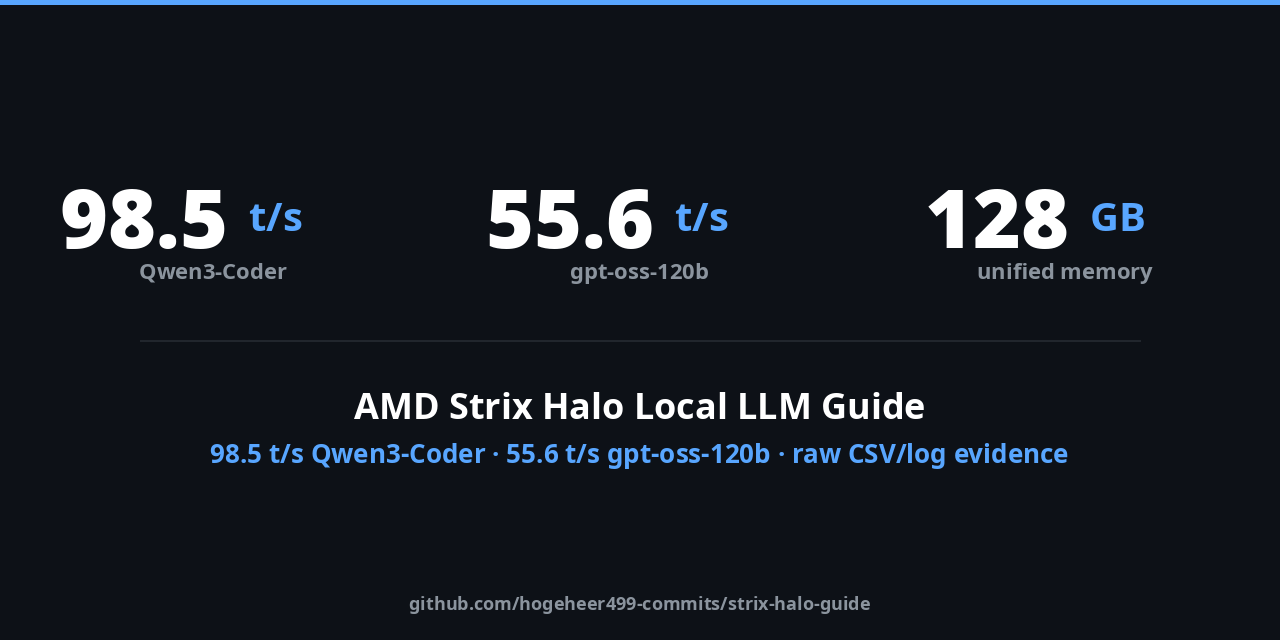
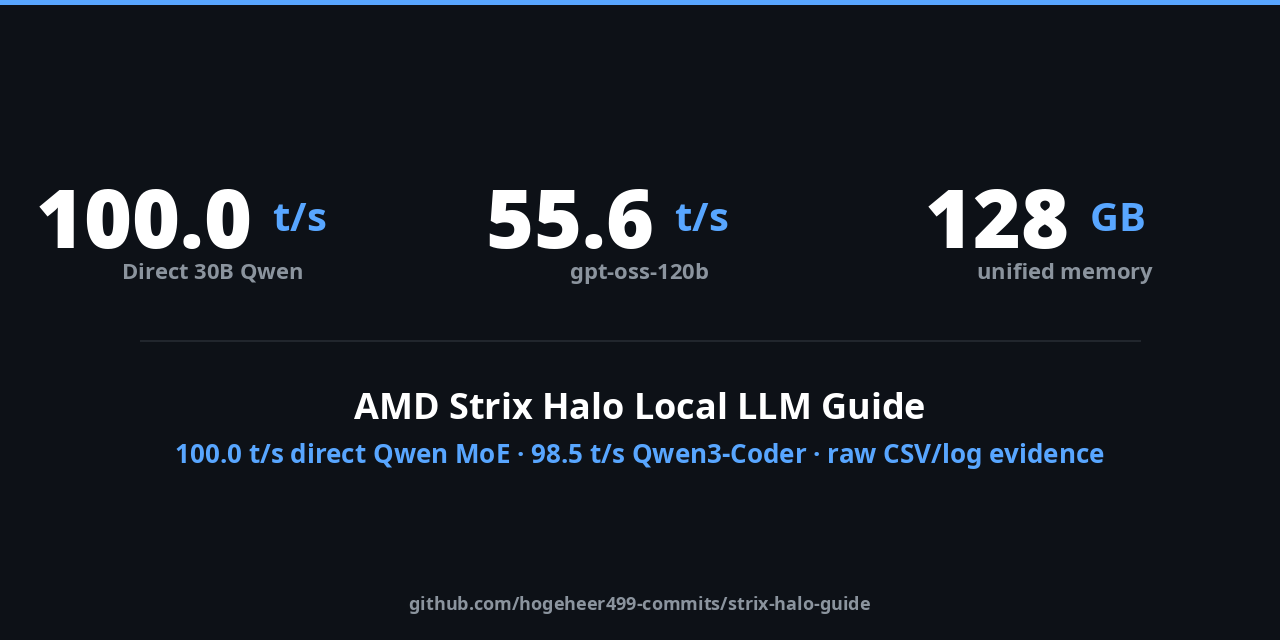
docs: refresh 100 tps sharing metadata

Changed region(s): [[0.125, 0.6875, 0.875, 0.75], [0.0312, 0.2812, 0.25, 0.4375]]

diff --git a/generate_preview.py b/generate_preview.py
@@ -19,7 +19,7 @@ draw.rectangle([0, 0, W, 4], fill=ACCENT)
 
 # Three big numbers side by side
 stats = [
-    ("98.5", "t/s", "Qwen3-Coder"),
+    ("100.0", "t/s", "Direct 30B Qwen"),
     ("55.6", "t/s", "gpt-oss-120b"),
     ("128", "GB", "unified memory"),
 ]
@@ -67,7 +67,7 @@ bbox = draw.textbbox((0, 0), title, font=title_font)
 draw.text(((W - bbox[2] + bbox[0]) // 2, 380), title, fill=WHITE, font=title_font)
 
 # Punchline
-punch = "98.5 t/s Qwen3-Coder · 55.6 t/s gpt-oss-120b · raw CSV/log evidence"
+punch = "100.0 t/s direct Qwen MoE · 98.5 t/s Qwen3-Coder · raw CSV/log evidence"
 punch_font = font_reg(26)
 bbox = draw.textbbox((0, 0), punch, font=punch_font)
 draw.text(((W - bbox[2] + bbox[0]) // 2, 435), punch, fill=ACCENT, font=punch_font)

diff --git a/SHARE.md b/SHARE.md
@@ -44,7 +44,7 @@ Everyone should post this link.
 
 ## One-Line Summary
 
-Measured Strix Halo local LLM guide for Ryzen AI MAX+ 395 / Radeon 8060S / 96-128GB unified memory: setup, model choices, 63-98.5 t/s current direct Qwen MoE results, 81.3 t/s Qwen3.6 speed-first, 55.6 t/s gpt-oss-120b, 128K context, MTP speculative decoding at 101.1 t/s local broad average, CSVs, raw logs, reproducibility notes, community validation across Corsair, GMKtec, and MS-S1-Max systems, command-flag sensitivity notes, Windows LM Studio evidence, tuned thermal/power-policy evidence, and first wall-power efficiency rows.
+Measured Strix Halo local LLM guide for Ryzen AI MAX+ 395 / Radeon 8060S / 96-128GB unified memory: setup, model choices, direct 100.0 t/s 30B-class Qwen MoE evidence, 98.5 t/s Qwen3-Coder speed-first, 81.3 t/s Qwen3.6 speed-first, 55.6 t/s gpt-oss-120b, 128K context, MTP speculative decoding at 101.1 t/s local broad average, CSVs, raw logs, reproducibility notes, community validation across Corsair, GMKtec, and MS-S1-Max systems, command-flag sensitivity notes, Windows LM Studio evidence, tuned thermal/power-policy evidence, and first wall-power efficiency rows.
 
 ## Short Share Text
 
@@ -53,6 +53,8 @@ I could not find one complete, copyable Strix Halo local LLM guide, so I made on
 Highlights:
 
 - Qwen3-Coder 30B-A3B: 96.76 t/s direct llama.cpp Vulkan/RADV on current b9049; previous b9010 peak was 97.24 t/s.
+- Qwen3-30B-A3B-Instruct-2507 IQ4_XS: 100.04 t/s direct llama.cpp Vulkan/RADV on b9467. This is a separate general-instruct Qwen route, not the Qwen3-Coder headline.
+- Qwen3-Coder 30B-A3B Q4_K_S: 98.51 t/s direct llama.cpp Vulkan/RADV speed-first row on b9179.
 - Qwen3.6 35B-A3B: 62.56 t/s direct llama.cpp Vulkan/RADV on current b9049.
 - Qwen3.6 35B-A3B Q4_0: 81.30 t/s direct llama.cpp Vulkan/RADV as a speed-first quant row.
 - Qwen3.6 35B-A3B MTP IQ4_XS-Q8nextn: 101.16 t/s best local Beelink average over six `llama-server` prompts on b9360, with repeated t16 runs around 101.1 t/s; first GMKtec community reproduction reached 93.29 t/s on b9235. Best local prompt was 117.53 t/s. This is speculative server evidence, not a direct `llama-bench` headline.
@@ -71,7 +73,7 @@ Corrections, other Strix Halo results, and failed experiments are welcome.
 
 Title options:
 
-- I benchmarked local LLMs on AMD Strix Halo 128GB: 97 t/s Qwen3-Coder, 55.6 t/s gpt-oss-120b, 128K context
+- I benchmarked local LLMs on AMD Strix Halo 128GB: direct 100 t/s Qwen 30B MoE, 55.6 t/s gpt-oss-120b, 128K context
 - Strix Halo local LLM guide with raw CSVs/logs: what works, what does not, and what to run
 - AMD Ryzen AI MAX+ 395 local LLM guide: Ollama, llama.cpp, Vulkan/RADV, ROCm, 128K context
 
@@ -85,6 +87,8 @@ https://github.com/hogeheer499-commits/strix-halo-guide
 This is measured primarily on a Beelink GTR9 Pro with Ryzen AI MAX+ 395, Radeon 8060S, and 128GB unified memory.
 
 Headline results:
+- Qwen3-30B-A3B-Instruct-2507 IQ4_XS: 100.04 t/s direct llama.cpp Vulkan/RADV on b9467. Separate general-instruct Qwen route; not a Qwen3-Coder replacement.
+- Qwen3-Coder 30B-A3B Q4_K_S: 98.51 t/s direct llama.cpp Vulkan/RADV speed-first row on b9179
 - Qwen3-Coder 30B-A3B UD-Q4_K_XL: 96.76 t/s direct llama.cpp Vulkan/RADV on current b9049
 - Qwen3.6 35B-A3B UD-Q4_K_M: 62.56 t/s direct llama.cpp Vulkan/RADV on current b9049
 - Qwen3.6 35B-A3B Q4_0: 81.30 t/s direct llama.cpp Vulkan/RADV as a speed-first quant row
@@ -133,7 +137,7 @@ Repo: https://github.com/hogeheer499-commits/strix-halo-guide
 Strix Halo local LLM guide with measured setup + raw benchmark evidence:
 https://github.com/hogeheer499-commits/strix-halo-guide
 
-Highlights: 98.51 t/s Qwen3-Coder speed-first direct llama.cpp Vulkan/RADV, 96.76 t/s balanced Qwen3-Coder direct row on b9049, 101.16 t/s local Qwen3.6 MTP server average on b9360 plus 93.29 t/s GMKtec community MTP reproduction on b9235, 55.57 t/s gpt-oss-120b MXFP4, 128K context tested, server shootout included, N=3 Corsair validation at 93.55-95.50 t/s, GMKtec EVO-X2 native Ubuntu Qwen3.6 validation within 2%, GMKtec Qwen3-Coder b9235 follow-up data, Windows MS-S1-Max LM Studio evidence, a tuned Reddit GMKtec 99.9-100.0 t/s Qwen3-Coder report, community wall-power rows, a community 3-node USB4 llama.cpp RPC matrix, and USB4 latency tuning data.
+Highlights: 100.04 t/s direct Qwen3-30B-A3B-Instruct-2507 IQ4_XS, 98.51 t/s Qwen3-Coder speed-first direct llama.cpp Vulkan/RADV, 96.76 t/s balanced Qwen3-Coder direct row on b9049, 101.16 t/s local Qwen3.6 MTP server average on b9360 plus 93.29 t/s GMKtec community MTP reproduction on b9235, 55.57 t/s gpt-oss-120b MXFP4, 128K context tested, server shootout included, N=3 Corsair validation at 93.55-95.50 t/s, GMKtec EVO-X2 native Ubuntu Qwen3.6 validation within 2%, GMKtec Qwen3-Coder b9235 follow-up data, Windows MS-S1-Max LM Studio evidence, a tuned Reddit GMKtec 99.9-100.0 t/s Qwen3-Coder report, community wall-power rows, a community 3-node USB4 llama.cpp RPC matrix, and USB4 latency tuning data.
 ```
 
 ## Partner / Reviewer Sharing Snippet

diff --git a/MAX_PERFORMANCE_PLAN.md b/MAX_PERFORMANCE_PLAN.md
@@ -26,7 +26,8 @@ Current fastest local headline:
 - Historical balanced peak: Qwen3-Coder 30B-A3B UD-Q4_K_XL at 97.24 t/s on b9010.
 - New speed-first peak: Qwen3-Coder 30B-A3B Q4_K_S at 98.51 t/s r50 on llama.cpp b9179, Vulkan/RADV, after fixing the `tuned` versus `power-profiles-daemon` conflict and pausing benchmark noise.
 - Treat 98.51 t/s as the current measured speed-first Qwen3-Coder peak, not a 100 t/s result and not the default balanced-quality recommendation.
-- Additional break-100 route testing reached 99.11 t/s in an r5 scout and 98.96 t/s in an r20 confirmation, but still did not produce a stable 100 t/s result.
+- Separate direct 100 t/s row: Qwen3-30B-A3B-Instruct-2507 IQ4_XS reached 100.04 t/s r50 on llama.cpp b9467, Vulkan/RADV. Treat it as a separate general-instruct Qwen route, not as a Qwen3-Coder replacement.
+- Additional Qwen3-Coder break-100 route testing reached 99.11 t/s in an r5 scout and 98.96 t/s in an r20 confirmation, but still did not produce a stable Qwen3-Coder 100 t/s result.
 - Current fastest measured Qwen3.6 path: Q4_0 at 81.30 t/s on llama.cpp b9049, Vulkan/RADV. Label this as speed-first, not the default all-round quality recommendation.
 - Current fastest measured Qwen3.6 MTP server route: 101.16 t/s best local Beelink six-prompt average on IQ4_XS-Q8nextn with b9360, `draft-n=2`, `--poll 100`, and `-ub 1024`; t16 repeats were 101.15 / 101.10 / 101.06 t/s. The best community broad MTP average is 93.29 t/s on GMKtec EVO-X2 with b9235.
 
@@ -38,7 +39,8 @@ Detailed results: [`MAX_PERFORMANCE_RESULTS_2026-05-07.md`](MAX_PERFORMANCE_RESU
 |-------|--------|--------|
 | Qwen3.6 quant sweep | done | Q4_0 reached 81.30 t/s; Q4_K_M reached 76.94 t/s; old UD row remains 62.56 t/s. |
 | Same-source HIP vs Vulkan | done | HIP wins prompt processing at pp16384; Vulkan wins tg128. |
-| Qwen3-Coder max-speed sweep | done | No stable 100 t/s result; strict-clean speed-first ceiling is now 98.51 t/s; balanced UD remains 96-97 t/s. |
+| Qwen3-Coder max-speed sweep | done | No stable Qwen3-Coder 100 t/s result; strict-clean speed-first ceiling is now 98.51 t/s; balanced UD remains 96-97 t/s. |
+| Qwen3-30B-A3B-Instruct-2507 scout | done | IQ4_XS reached 100.04 t/s r50 direct `llama-bench` on b9467; separate general-instruct Qwen route, not a Qwen3-Coder replacement. |
 | gpt-oss-120b long-context sweep | done | 55.57 t/s tg128 and prompt processing through 65K tokens. |
 | Tuned rocWMMA path | attempted | lhl branch built, but failed to load current Qwen3.6 GGUFs. |
 | vLLM AWQ/DFlash | partially blocked | Plain AWQ smoke works at about 25 t/s; exact DFlash route blocked by gated drafter access. |
@@ -120,7 +122,7 @@ Expected outcome:
 
 Why: this directly targets the 96-98.5 t/s Qwen3-Coder headline. The next useful question is whether the Beelink can cross 100 t/s on a still-useful coding model.
 
-2026-05-17 update: current llama.cpp master b9179 and Unsloth Qwen3-Coder Q4_0/Q4_K_S/IQ4_NL/Q4_K_M quants were tested. Q4_K_S reached 97.22 t/s r20 in the first sweep. After fixing the `tuned`/`power-profiles-daemon` host-state conflict and pausing benchmark noise, Q4_K_S confirmed 98.51 t/s r50. A later break-100 pass reached 99.11 t/s in r5 and 98.96 t/s in r20. AMDVLK isolated, PR #22970, and latest master b9187 also failed to produce a stable direct 100 t/s path. Qwen3-Coder `llama-server` plus ngram speculation reached 95.21 t/s average, also below broad 100. MTP did produce a 110.61 t/s best-prompt `llama-server` result, but that is a separate speculative server claim, not this direct Qwen3-Coder `llama-bench` target.
+2026-05-17 update: current llama.cpp master b9179 and Unsloth Qwen3-Coder Q4_0/Q4_K_S/IQ4_NL/Q4_K_M quants were tested. Q4_K_S reached 97.22 t/s r20 in the first sweep. After fixing the `tuned`/`power-profiles-daemon` host-state conflict and pausing benchmark noise, Q4_K_S confirmed 98.51 t/s r50. A later Qwen3-Coder break-100 pass reached 99.11 t/s in r5 and 98.96 t/s in r20. AMDVLK isolated, PR #22970, and latest master b9187 also failed to produce a stable direct Qwen3-Coder 100 t/s path. A later 2026-06-02 scout did cross 100 t/s direct with Qwen3-30B-A3B-Instruct-2507 IQ4_XS, but that is a separate general-instruct model/quant route. Qwen3-Coder `llama-server` plus ngram speculation reached 95.21 t/s average, also below broad 100. MTP did produce a 110.61 t/s best-prompt `llama-server` result, but that is a separate speculative server claim, not this direct Qwen3-Coder `llama-bench` target.
 
 Levers:
 

diff --git a/MTP_SPECULATIVE_DECODING.md b/MTP_SPECULATIVE_DECODING.md
@@ -2,7 +2,7 @@
 
 This is an experimental `llama-server` route for practical local API speed. It is not the same benchmark as the direct non-speculative `llama-bench` headline.
 
-Short version: MTP works on Strix Halo with Vulkan/RADV and current `llama.cpp` master. It improves server generation on the tested Qwen3.6 35B MTP GGUFs. The latest local b9360 run crossed 100 t/s across the six-prompt harness, and the route also has a GMKtec EVO-X2 community reproduction. This still does not replace the 98.51 t/s direct Qwen3-Coder `llama-bench` headline.
+Short version: MTP works on Strix Halo with Vulkan/RADV and current `llama.cpp` master. It improves server generation on the tested Qwen3.6 35B MTP GGUFs. The latest local b9360 run crossed 100 t/s across the six-prompt harness, and the route also has a GMKtec EVO-X2 community reproduction. Keep it separate from direct `llama-bench`: the guide now has a separate Qwen3-30B-A3B-Instruct-2507 IQ4_XS direct 100.04 t/s row, while the Qwen3-Coder direct speed-first row remains 98.51 t/s.
 
 ## Current Result
 
@@ -41,11 +41,12 @@ Local rows were measured on the Beelink GTR9 Pro with Mesa/RADV and Qwen3.6 MTP 
 
 The most honest public summary is:
 
-- **Direct speed headline remains:** Qwen3-Coder Q4_K_S at 98.51 t/s r50.
+- **Direct Qwen3-Coder speed row:** Qwen3-Coder Q4_K_S remains 98.51 t/s r50.
+- **Separate direct 100 t/s row:** Qwen3-30B-A3B-Instruct-2507 IQ4_XS reached 100.04 t/s r50 direct `llama-bench`; this is a different general-instruct model and quant.
 - **Best local MTP server average measured here:** Qwen3.6 MTP IQ4_XS-Q8nextn at about 101.1 t/s across six practical prompts on b9360 with `draft-n=2`, `--poll 100`, and `-ub 1024`.
 - **Best community MTP average reported so far:** the same exact route reached 93.29 t/s on mottledMantis' GMKtec EVO-X2.
 - **Fastest local MTP server prompt:** Qwen3.6 MTP IQ4_XS-Q8nextn with `draft-n=3`, `-t 16`, `--poll 100`, and `-ub 1024` reached 117.53 t/s on the best b9360 prompt.
-- **Still not a direct 100 t/s claim:** the 100+ result is `llama-server` speculative decoding, not direct non-speculative `llama-bench`.
+- **MTP is still not the direct headline category:** the 101.1 t/s MTP result is `llama-server` speculative decoding, not direct non-speculative `llama-bench`.
 - **Official 27B MTP Q8_0 is not a speed route here:** the latest rerun reached 14.69 t/s with MTP, so the useful practical path remains the 35B-A3B MoE MTP quant.
 
 ## Why This Matters

diff --git a/README.md b/README.md
@@ -1990,7 +1990,7 @@ Financial support may fund hardware, storage, model downloads, testing time, and
 ### 2026-05-27 -- Latest b9360 MTP Breaks 100 t/s Server Average
 
 - **MTP route crossed 100 t/s broad average:** llama.cpp b9360 (`6b4e4bd58`) with Mesa/RADV 26.1.1 pushed Qwen3.6 35B-A3B MTP IQ4_XS-Q8nextn to **101.16 t/s** best six-prompt average with `draft-n=2`, `--poll 100`, and `-ub 1024`. Three t16 repeats landed at **101.15 / 101.10 / 101.06 t/s**.
-- **Still not a direct 100 t/s claim:** b9360 direct Qwen3-Coder Q4_K_S measured **97.23 tg128**, and UD-Q4_K_XL measured **92.60 tg128**. The direct headline remains b9179 Q4_K_S **98.51 t/s** and balanced b9049/b9010 **96-97 t/s**.
+- **At that date, still not a direct 100 t/s claim:** b9360 direct Qwen3-Coder Q4_K_S measured **97.23 tg128**, and UD-Q4_K_XL measured **92.60 tg128**. The Qwen3-Coder direct row remained b9179 Q4_K_S **98.51 t/s** and balanced b9049/b9010 **96-97 t/s** until the later 2026-06-02 guide update added a separate Qwen3-30B-A3B-Instruct-2507 direct 100.04 t/s row.
 - Added raw evidence under `data/raw/2026-05-27/latest-llamacpp-b9360/` and updated `BENCHMARKS.md`, `MTP_SPECULATIVE_DECODING.md`, `data/benchmarks.csv`, `data/mtp_speculative.csv`, and `data/headline_claims.csv`.
 
 ### 2026-05-26 -- Latest b9334 MTP And Direct Rerun

diff --git a/ROCM_VLLM_BUGWATCH.md b/ROCM_VLLM_BUGWATCH.md
@@ -79,7 +79,7 @@ Latest watch changes:
 - vLLM moved to 0.22.0 on 2026-05-29.
 - `ROCm/hip#3892` is closed, but any local ROCm/vLLM path should still record memory reporting from inside the actual container or bundle before claiming full unified-memory scheduler behavior.
 - `vllm-project/vllm#40898` remains open, so DFlash/SWA support is still a watch item rather than a reproduced guide claim.
-- Latest local `llama.cpp` b9442 direct Qwen3-Coder check did not improve the direct headline; the current direct headline remains b9179 Q4_K_S at 98.51 t/s and the experimental MTP server route remains b9360 at about 101.1 t/s.
+- Latest local `llama.cpp` b9442 direct Qwen3-Coder check did not improve the Qwen3-Coder direct row; that remains b9179 Q4_K_S at 98.51 t/s. A later b9467 scout added a separate Qwen3-30B-A3B-Instruct-2507 IQ4_XS direct 100.04 t/s row, and the experimental MTP server route remains b9360 at about 101.1 t/s.
 
 ## 2026-06-01 Watch Recheck
 
